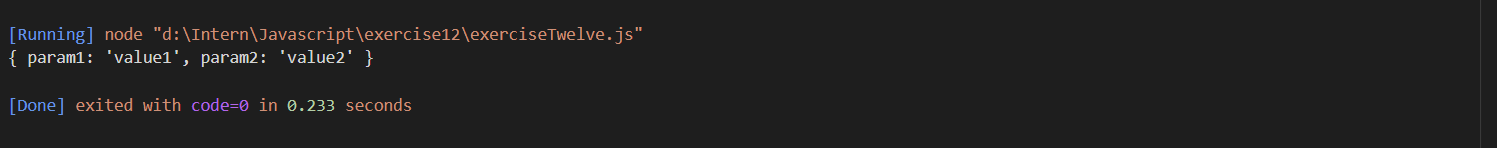
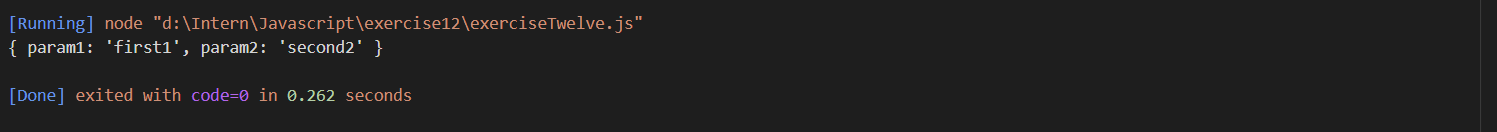
update

Changed region(s): [[0.0, 0.1212, 0.4302, 0.303], [0.0, 0.303, 0.2766, 0.4545], [0.0, 0.6667, 0.2766, 0.7879]]

diff --git a/exercise12/exerciseTwelve.js b/exercise12/exerciseTwelve.js
@@ -8,7 +8,6 @@ function parseQueryParameters(url) {
 
   return queryParams;
 }
-
-const url = "https://example.com/path?param1=value1&param2=value2";
+const url = "https://example.com/path?param1=first1&param2=second2";
 const queryParams = parseQueryParameters(url);
 console.log(queryParams);
